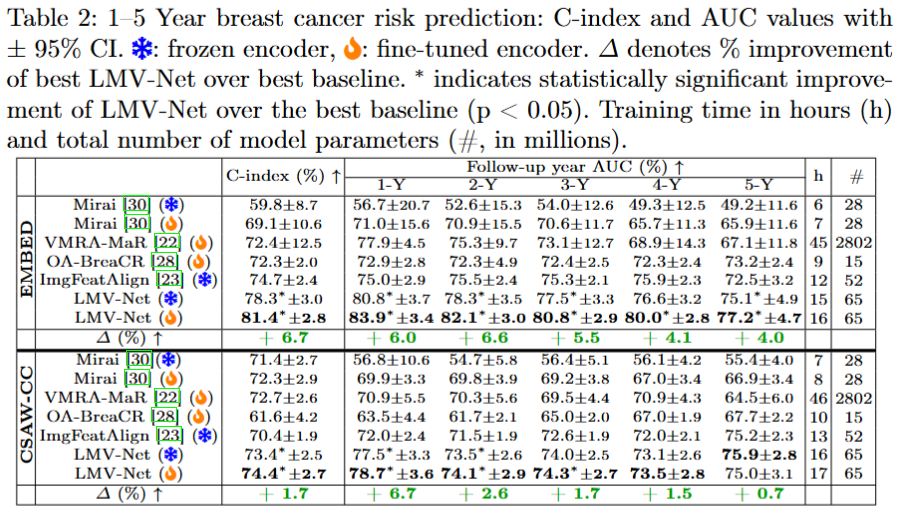
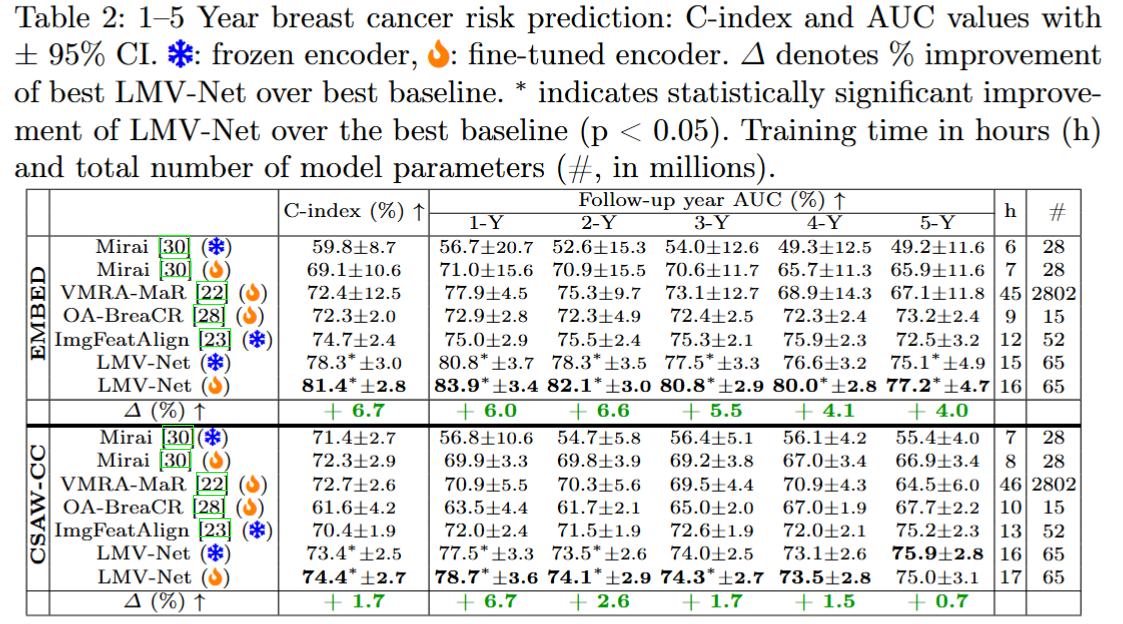
updated figure

diff --git a/README.md b/README.md
@@ -44,7 +44,7 @@ We used two large, publicly available mammography datasets :
 - Fine-tuning the encoder yields further improvements, achieving statistically significant gains ($p<0.05$) over the second-best model.
 
 <p align="center">
-  <img src="Figures/image1.png" alt="Image 1" width="700"/>
+  <img src="Figures/Image1.png" alt="Image 1" width="600"/>
 </p>
 
 #### Performance across density categories and cancer subgroups
